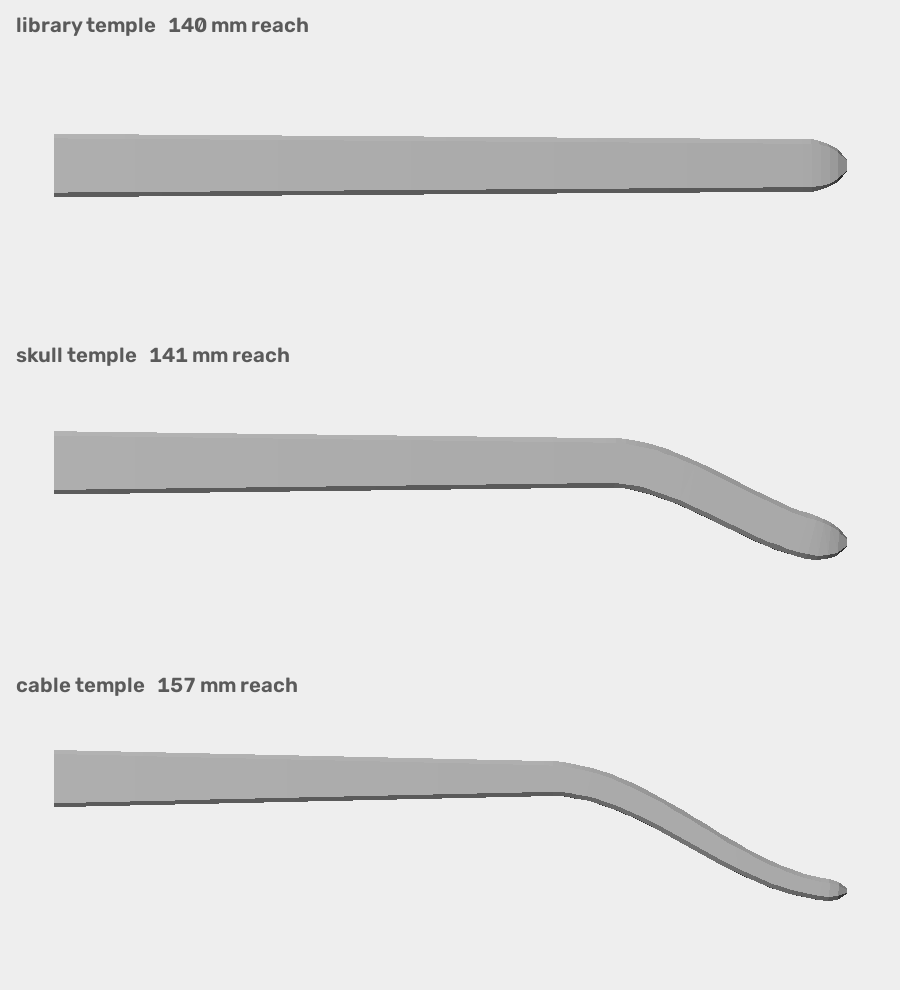
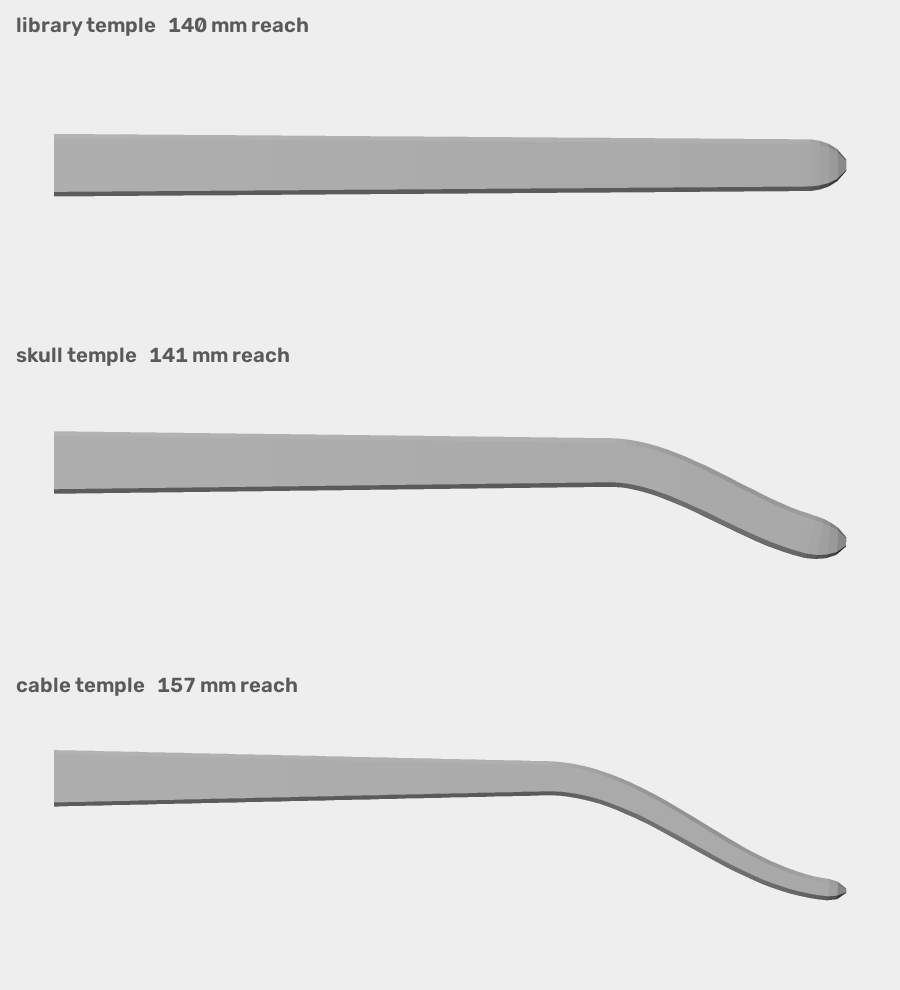
Re-render every documentation image with the new renderer
views() now supersamples by default, so the examples produce the better
stills too, not just the animations. All five pictures in the README were
made before smooth shading and antialiasing existed and showed stepped edges
and visible facets.

diff --git a/src/rgeo/render.py b/src/rgeo/render.py
@@ -202,14 +202,30 @@ def label(img, text: str) -> np.ndarray:
     return out
 
 
-def views(v, t, cameras: dict, size=(760, 560), margin: float = 0.06):
+def views(v, t, cameras: dict, size=(760, 560), margin: float = 0.06,
+          supersample: int = 3, smooth: bool = True):
     """Render a named set of views with one call. Same cameras every run, so
-    two versions can be compared by eye without re-aiming anything."""
+    two versions can be compared by eye without re-aiming anything.
+
+    Supersampled by default: the rasteriser has no antialiasing, and on a
+    still that anyone will look at twice the stepped edges are the first thing
+    they see. It costs little - the work here is per triangle, not per pixel.
+    """
+    import cv2 as _cv2
     out = {}
     for name, angles in cameras.items():
         yaw, pitch, roll = angles
         cam = fit_to_frame(v, Camera(yaw, pitch, roll), size, margin)
-        img, mask = shade(v, t, cam, size)
+        if supersample > 1:
+            big = (size[0] * supersample, size[1] * supersample)
+            cam_big = Camera(cam.yaw, cam.pitch, cam.roll,
+                             cam.scale * supersample, cam.cx * supersample,
+                             cam.cy * supersample)
+            img, mask = shade(v, t, cam_big, big, smooth=smooth)
+            img = _cv2.resize(img, size, interpolation=_cv2.INTER_AREA)
+            mask = _cv2.resize(mask, size, interpolation=_cv2.INTER_AREA)
+        else:
+            img, mask = shade(v, t, cam, size, smooth=smooth)
         out[name] = (img, mask, cam)
     return out
 
